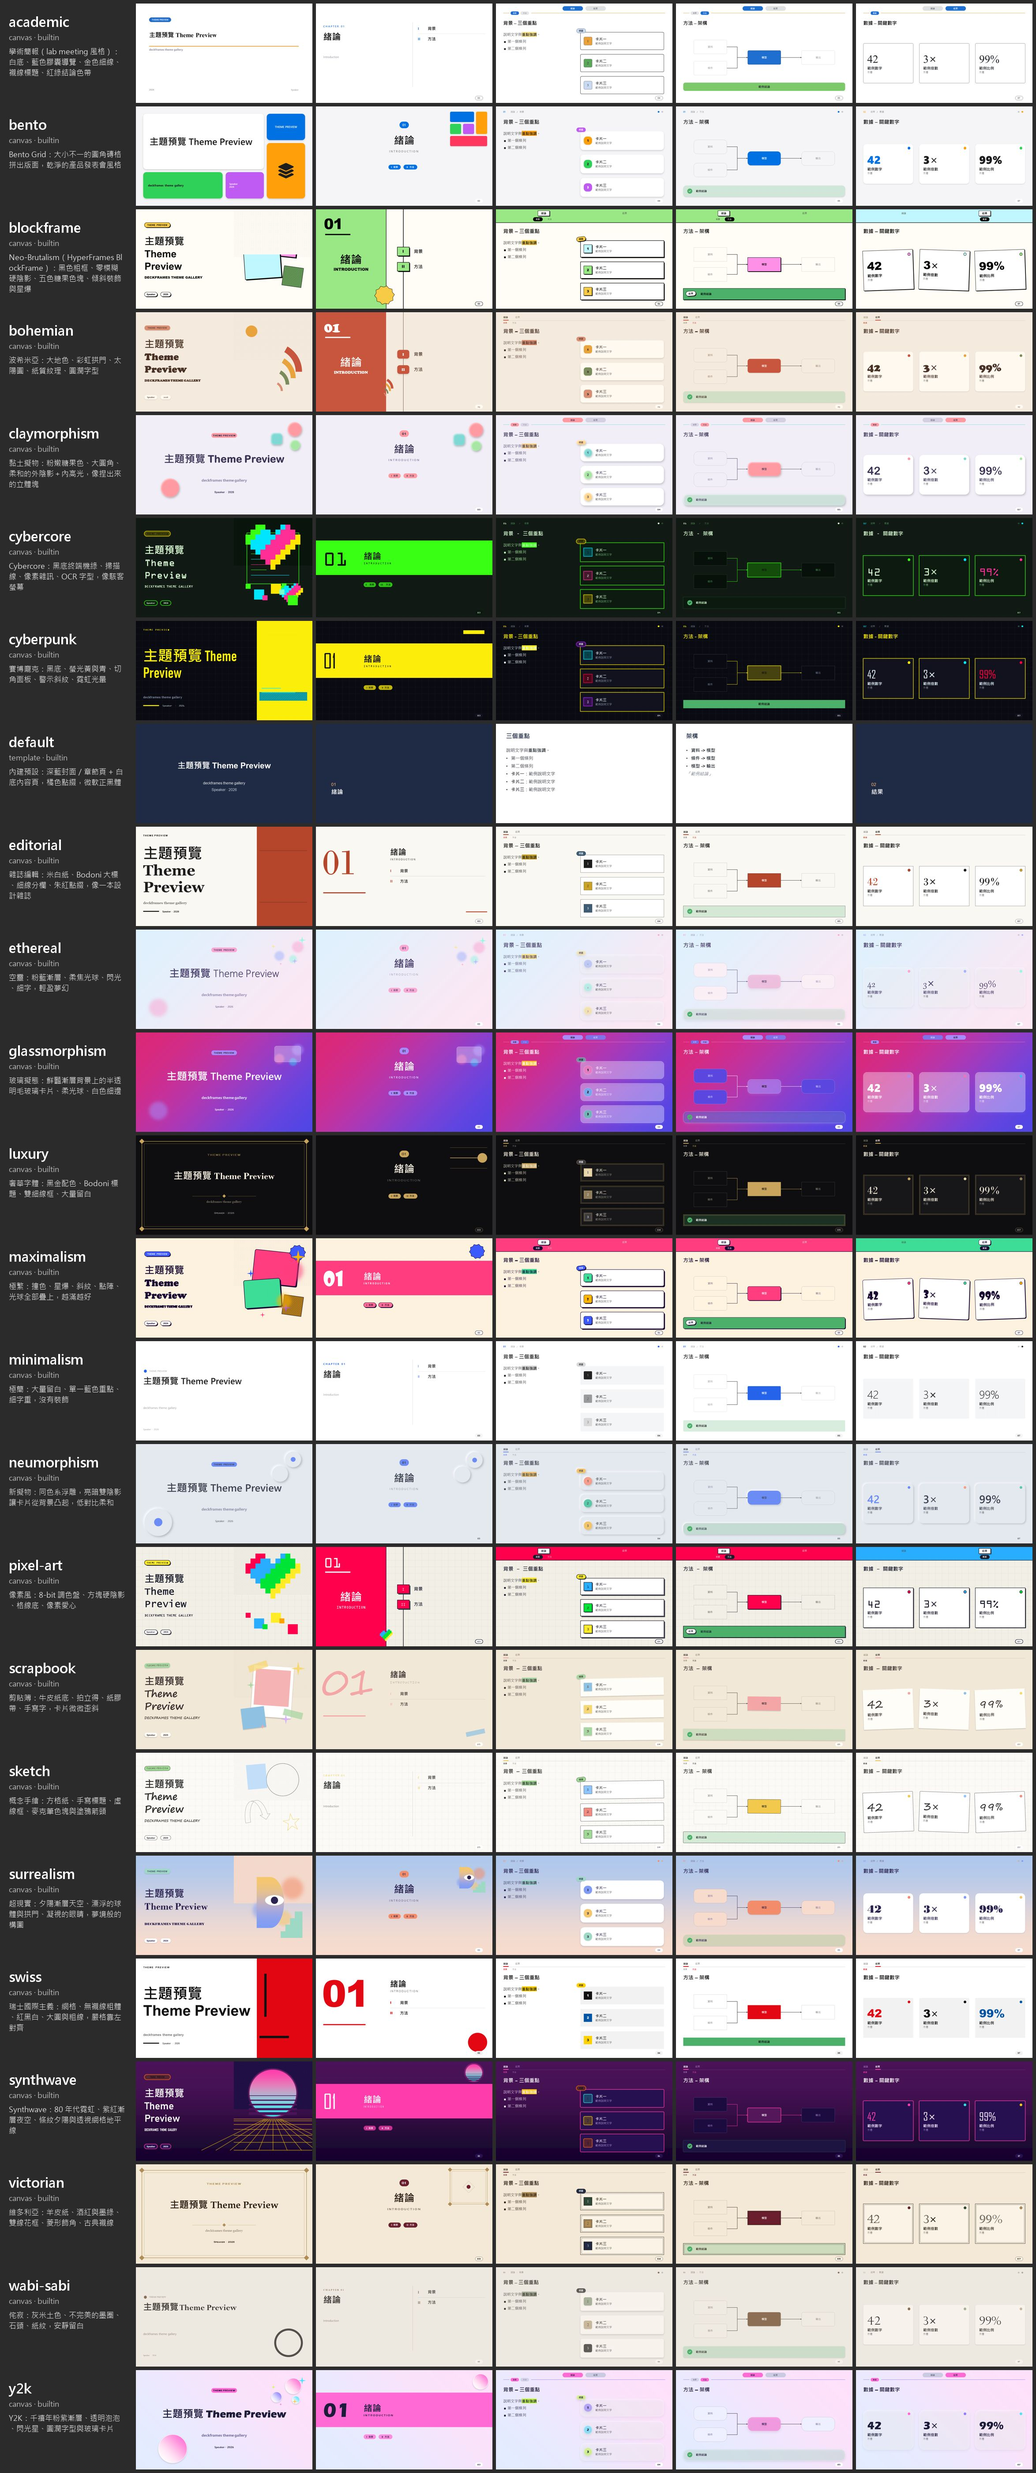
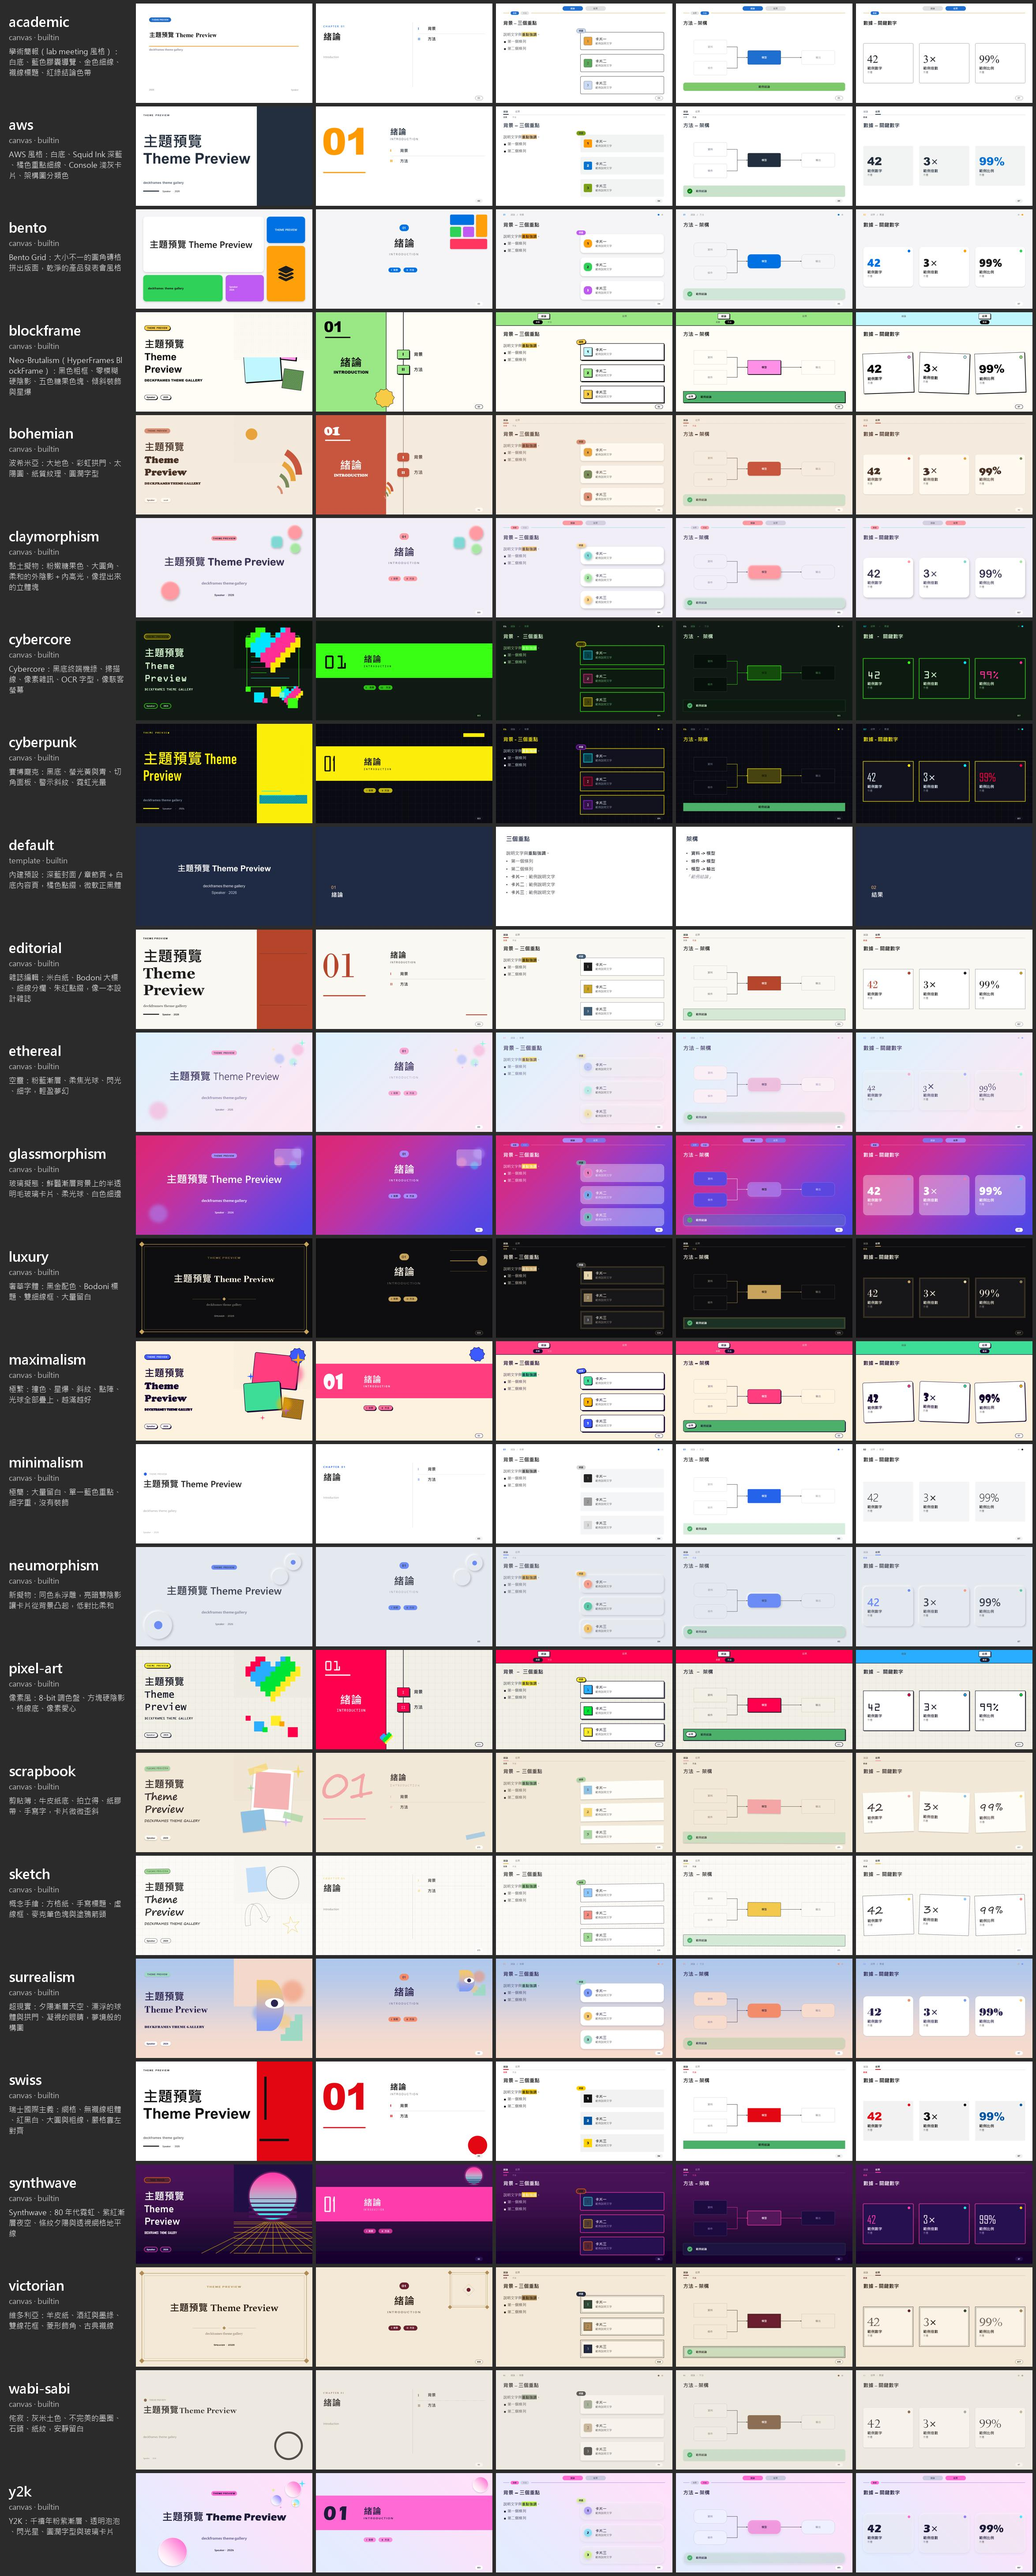
Add aws theme (squid-ink navy, orange accent rule, console-grey cards), regenerate theme gallery, document theme and sepia scope in the README prompt example

diff --git a/README.md b/README.md
@@ -15,12 +15,12 @@
 </details>
 
 <details>
-<summary>主題一覽（24 個內建）</summary>
+<summary>主題一覽（25 個內建）</summary>
 
-24 個內建主題不只換顏色，連卡片質感、封面／章節頁／導覽列／提示框的版型、背景與裝飾都不同：
+25 個內建主題不只換顏色，連卡片質感、封面／章節頁／導覽列／提示框的版型、背景與裝飾都不同：
 `academic`（學術 lab meeting）、`minimalism`、`swiss`、`editorial`、`bento`、`luxury`、`claymorphism`、
 `neumorphism`、`glassmorphism`、`y2k`、`ethereal`、`synthwave`、`cyberpunk`、`cybercore`、`pixel-art`、
-`maximalism`、`scrapbook`、`sketch`、`surrealism`、`bohemian`、`victorian`、`wabi-sabi`、`blockframe`、`default`。
+`maximalism`、`scrapbook`、`sketch`、`surrealism`、`bohemian`、`victorian`、`wabi-sabi`、`aws`、`blockframe`、`default`。
 另外還能一行匯入 HyperFrames 設計。用 `deckframes themes gallery` 產生：
 
 ![主題一覽](docs/themes-gallery.jpg)
@@ -117,10 +117,18 @@ AI 會：
 1. 問你用途、主題、要照稿直出還是幫你精煉
 2. 建立專案資料夾
 3. 整理 `deck.md`：修正階層、補英文章名、把適合的內容轉成資訊圖表
-4. 建置、檢查、看預覽圖，修正後重建
-5. 回報做了哪些調整
+4. 用 sepia 去 AI 化（有安裝 sepia 才會跑），再把草稿給你確認
+5. 建置、檢查、看預覽圖，修正後重建
+6. 回報做了哪些調整
 
 原稿存成 `source.md`，不會被修改。
+
+主題和去 AI 化範圍可以一次講清楚，AI 就不用再問：
+
+> 用 deckframes 把 `thesis.md` 做成口試簡報，主題用 `academic`，原稿也一起用 sepia 去 AI 化
+
+- 「主題用 `academic`」只決定外觀。口試的章節結構由用途決定，所以要說「口試簡報」或「研究報告」。只說「academic style」的話，AI 不一定知道你指的是主題。
+- sepia 去 AI 化會自動跑，不用另外交代。預設只改 AI 補寫的文字（講者備註、卡片說明、副標）；要連你的原稿一起改，才需要說「原稿也一起去 AI 化」。
 
 ### 自己用 CLI
 
@@ -338,7 +346,7 @@ pytest -q
 
 ## English
 
-**deckframes** turns a Markdown script into an editable PowerPoint deck: cover, outline, chapter dividers with a section list, content slides with a chapter/section nav bar, and native infographics (cards, flow, steps, timeline, stats, compare, charts, architecture diagrams, swim-lane timelines, problem→solution mappings, stacks, 2×2 matrices, pyramids, funnels, cycles, progress bars, tables, callouts) in 24 structurally different built-in themes. The build warns when a deck leans on one presentation pattern. It ships as a Python CLI plus a set of [Agent Skills](https://agentskills.io) that any skills-capable coding agent (Claude Code, Codex, Cursor, …) can follow.
+**deckframes** turns a Markdown script into an editable PowerPoint deck: cover, outline, chapter dividers with a section list, content slides with a chapter/section nav bar, and native infographics (cards, flow, steps, timeline, stats, compare, charts, architecture diagrams, swim-lane timelines, problem→solution mappings, stacks, 2×2 matrices, pyramids, funnels, cycles, progress bars, tables, callouts) in 25 structurally different built-in themes. The build warns when a deck leans on one presentation pattern. It ships as a Python CLI plus a set of [Agent Skills](https://agentskills.io) that any skills-capable coding agent (Claude Code, Codex, Cursor, …) can follow.
 
 ```bash
 uv tool install git+https://github.com/ChienIKao/deckframes      # CLI

diff --git a/skills/deckframes-design/SKILL.md b/skills/deckframes-design/SKILL.md
@@ -3,7 +3,7 @@ name: deckframes-design
 description: >
   Choose or create the visual theme of a deckframes deck: list built-in themes, import any
   HyperFrames design preset (FRAME.md) as a PowerPoint theme, and edit theme JSON tokens (palette,
-  ground, ink, fonts, border/shadow weights, surface / cover / nav variants, decorations). 24
+  ground, ink, fonts, border/shadow weights, surface / cover / nav variants, decorations). 25
   built-ins from academic, minimalism and swiss to claymorphism, glassmorphism and synthwave. Use when the user asks for a style,
   a colour scheme, a HyperFrames look, or to restyle an existing deck.
 ---
@@ -52,6 +52,7 @@ divider / nav / outline / callout / closing variant, a background, a texture and
 | `bohemian` | earth tones, rainbow arches, sun circle, paper texture |
 | `victorian` | parchment, burgundy and forest green, ornate double frames, serif |
 | `wabi-sabi` | greige and earth, imperfect ink circle, stones, paper grain |
+| `aws` | AWS look: white, squid-ink navy, orange title rule and chapter numbers, console-grey cards, architecture-icon category colours |
 | `default` | plain navy/white (template engine, no nav bar) |
 
 Match the theme to the audience: `academic` / `minimalism` / `swiss` / `editorial` for lab meetings,
